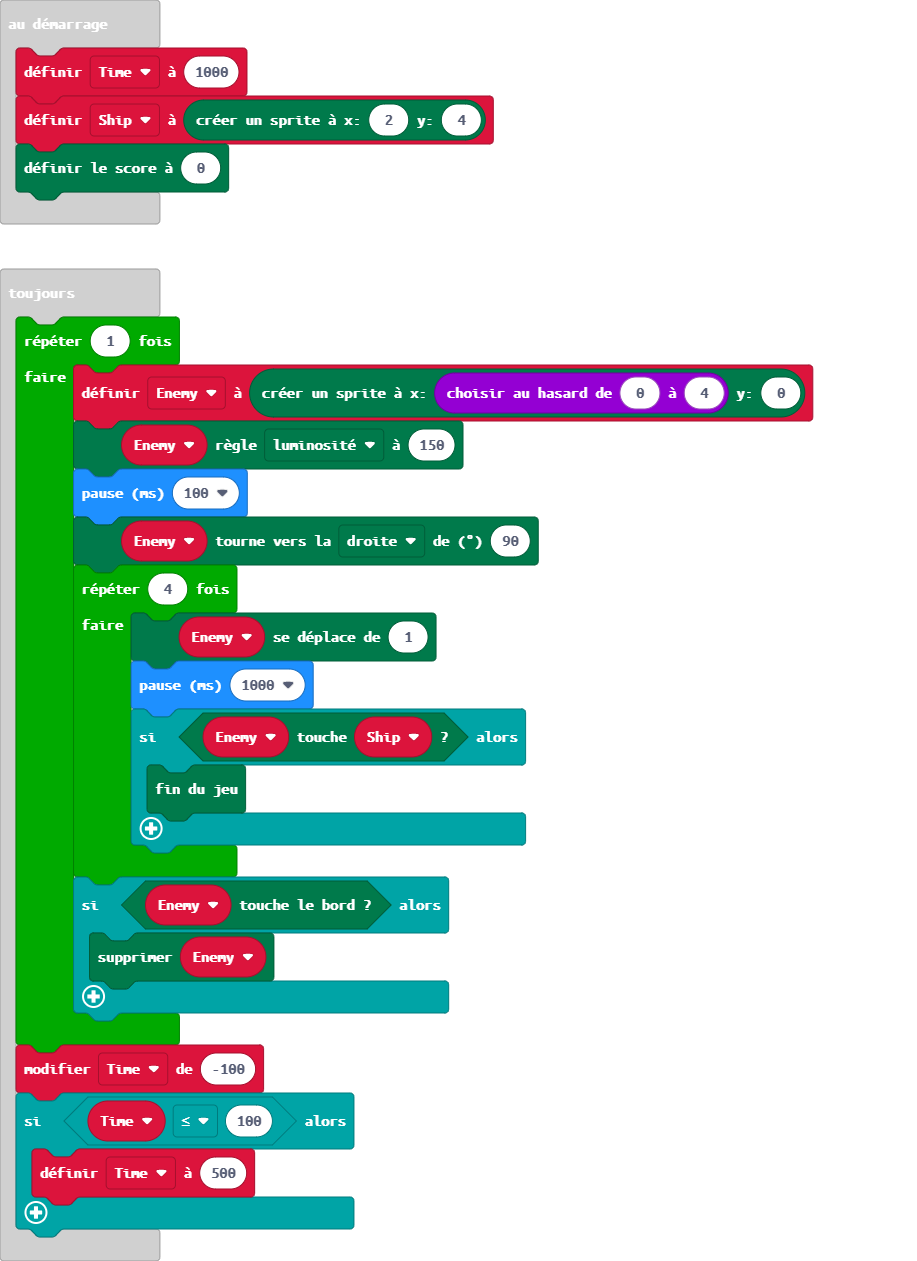
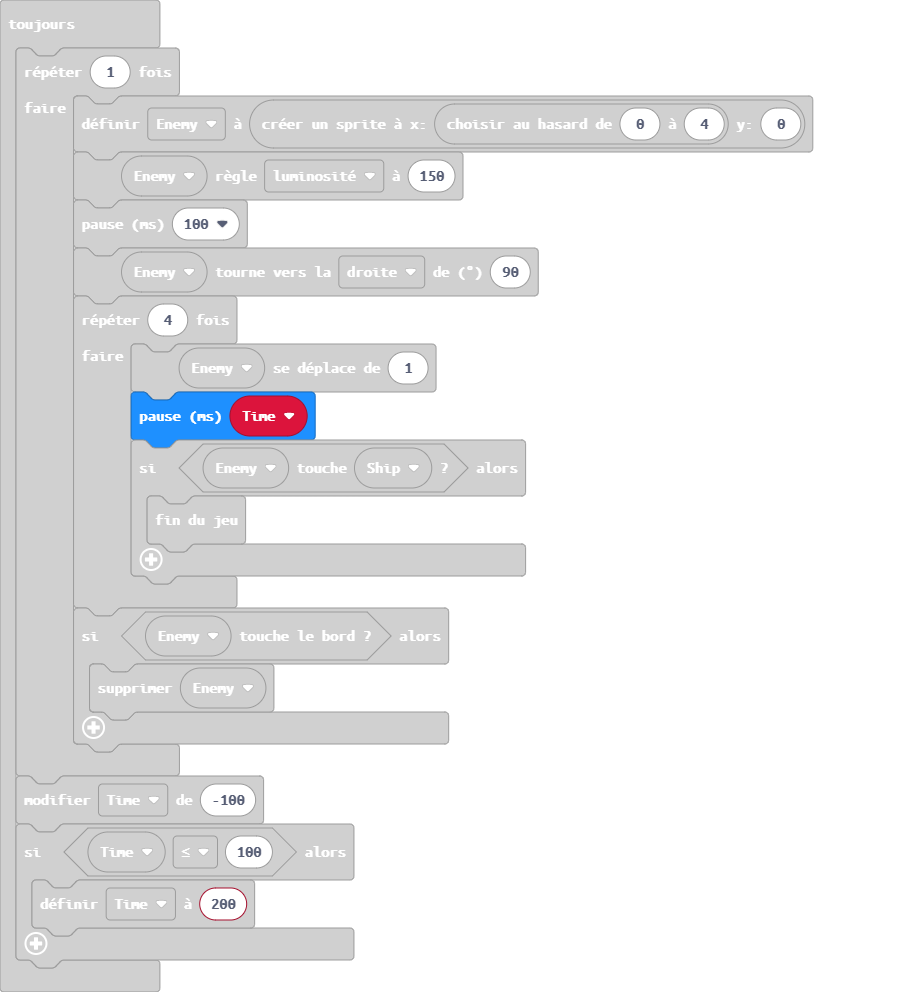
Mise à jour main.blocks, main.ts

diff --git a/main.ts b/main.ts
@@ -34,7 +34,7 @@ basic.forever(function () {
         Enemy.turn(Direction.Right, 90)
         for (let index = 0; index < 4; index++) {
             Enemy.move(1)
-            basic.pause(1000)
+            basic.pause(Time)
             if (Enemy.isTouching(Ship)) {
                 game.gameOver()
             }
@@ -45,6 +45,6 @@ basic.forever(function () {
     }
     Time += -100
     if (Time <= 100) {
-        Time = 500
+        Time = 200
     }
 })
